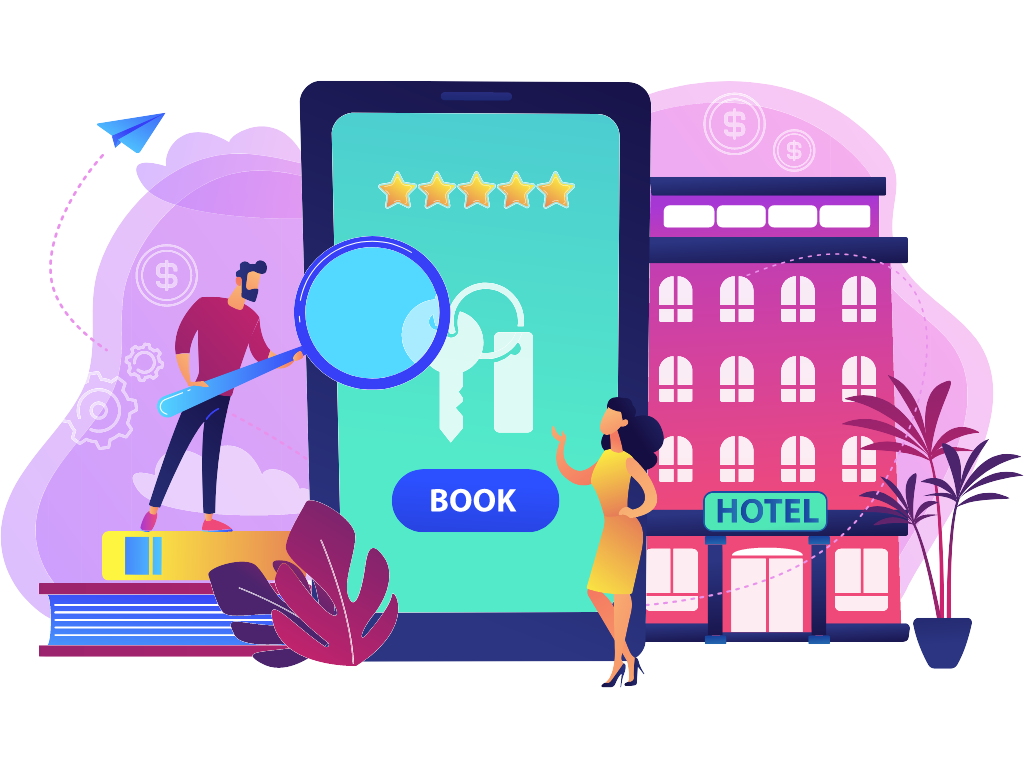
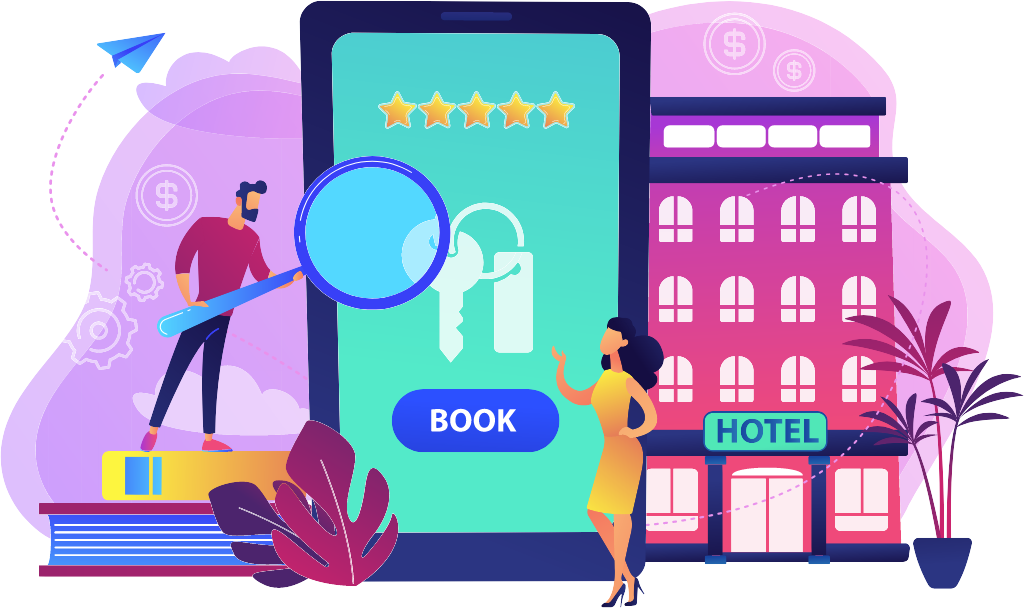
Añadida Interfaz de Huespedes

diff --git a/Menu-Huespedes/menu-huespedes.html b/Menu-Huespedes/menu-huespedes.html
@@ -1,0 +1,105 @@
+<!DOCTYPE html>
+<html lang="en">
+
+<head>
+    <meta charset="UTF-8">
+    <meta http-equiv="X-UA-Compatible" content="IE=edge">
+    <meta name="viewport" content="width=device-width, initial-scale=1.0">
+    <link rel="preconnect" href="https://fonts.googleapis.com">
+    <link rel="preconnect" href="https://fonts.gstatic.com" crossorigin>
+    <link href="https://fonts.googleapis.com/css2?family=Fira+Code:wght@300;400;500;600;700&display=swap"
+        rel="stylesheet">
+    <link rel="stylesheet" type="text/css" href="menu-huespedes.css">
+    <title>Hotel Paradise</title>
+</head>
+
+<body>
+    <main>
+
+        <section class="bloq-img">
+            <img class="logo" src="../Imagenes/logo circular completo.png" alt="Logo Hotel Paradise">
+            <img class="huesped" src="../Imagenes/img-huespedes.png" alt="Reservas Hotel Paradise">
+        </section>
+
+        <section class="bloq-huesped">
+
+            <h1>REGISTRO HUÉSPED</h1>
+
+            <br>
+            <section class="data-inputs">
+
+                <div class="datadiv">
+                    <h2>NOMBRE</h2>
+                    <div>
+                        <input type="text" id="name" name="name" required>
+                    </div>
+                </div>
+
+                <br>
+
+                <div class="datadiv">
+                    <h2>APELLIDOS</h2>
+                    <div>
+                        <input type="text" id="lastname" name="lastname" required>
+                    </div>
+                </div>
+
+                <br>
+
+                <div class="datadiv">
+                    <h2>FECHA DE NACIMIENTO</h2>
+                    <div>
+                        <input type="date" id="born-date" name="born-date" required>
+                    </div>
+                </div>
+
+                <br>
+
+                <div class="datadiv">
+                    <h2>NACIONALIDAD</h2>
+                    <select id="nationality" name="nationality">
+                        <option value="item-mexico">MÉXICO</option>
+                        <option value="item-argentina">ARGENTINA</option>
+                        <option value="item-chile">CHILE</option>
+                    </select>
+                </div>
+
+                <br>
+
+                <div class="datadiv">
+                    <h2>TELEFONO</h2>
+                    <div>
+                        <input type="tel" id="telefono" name="telefono" pattern="[0-9]{10}" required>
+                    </div>
+                </div>
+
+                <br>
+
+                <div class="datadiv">
+                    <h2>NUMERO DE RESERVA</h2>
+                    <div>
+                        <input type="number" id="reservation-number" name="reservation-number" readonly required>
+                    </div>
+                </div>
+
+                <br>
+
+                <a class="button" href="">
+                    <button type="submit">SIGUIENTE</button> <!-- TIENE QUE CAMBIARSE A UN -->
+    
+                </a>
+
+            </section>
+
+        </section>
+
+
+    </main>
+
+    <footer>
+        <p>Diseñado y Desarrollado por José Luis Garza Espinoza © 2023. </p>
+    </footer>
+
+</body>
+
+</html>

diff --git a/Menu-Huespedes/menu-huespedes.css b/Menu-Huespedes/menu-huespedes.css
@@ -154,7 +154,7 @@ main{
 
 }
 
-.bloq-reserva{
+.bloq-huesped{
     padding: 5%;
     margin-top: 15vh;
     width: 40%;
@@ -163,42 +163,45 @@ main{
 }
 
 
-.bloq-reserva h1{
+.bloq-huesped h1{
     text-align: center;
     font-family: 'Fira Code', monospace;
     font-weight: 700;
     font-size: 3.6vh;
     color: #03045E;
-    padding-bottom: 1em;
+    padding-bottom: .3em;
 }
 
 
 .data-inputs{
     display: flex;
     flex-direction: column;
-    gap: .5em;
 }
 
 
 
-.bloq-reserva input, select {
+.bloq-huesped input, select {
     width: 100%;
     box-sizing: border-box;
     font-family: 'Fira Code', monospace;
     font-weight: 400;
-    font-size: 3.6vh;
+    font-size: 3.0vh;
     border-style: solid;
     border-color: #75758b;
     border-bottom-color: #03045E;
     border-bottom-width: .12em;
 }
 
-.bloq-reserva h2{
+.bloq-huesped input{
+    
+}
+
+.bloq-huesped h2{
     font-family: 'Fira Code', monospace;
     font-weight: 700;
-    font-size: 3.6vh;
+    font-size: 3.2vh;
     color: #0077B6;
-    padding-bottom: 1em;
+    padding-bottom: .5em;
 }
 
 input:focus{
@@ -220,7 +223,7 @@ a{
 }
 
 button{
-    margin-top: 1em;
+    margin-top: .2em;
     width: 100%;
     padding-left: .5em;
     padding-right: .5em;
@@ -257,11 +260,10 @@ button:hover{
 
 .logo{
     max-width: 25%;
-    padding-bottom: 5%;
     height: auto;
 }
 
-.book{
+.huesped{
     max-width: 80%;
     height: auto;
 }

diff --git a/Menu-Reservas/menu-reservas.html b/Menu-Reservas/menu-reservas.html
@@ -58,7 +58,7 @@
                     </select>
                 </div>
 
-                <a class="button" href="">
+                <a class="button" href="/Menu-Huespedes/menu-huespedes.html">
                     <button type="submit">SIGUIENTE</button> <!-- TIENE QUE CAMBIARSE A UN -->
     
                 </a>
